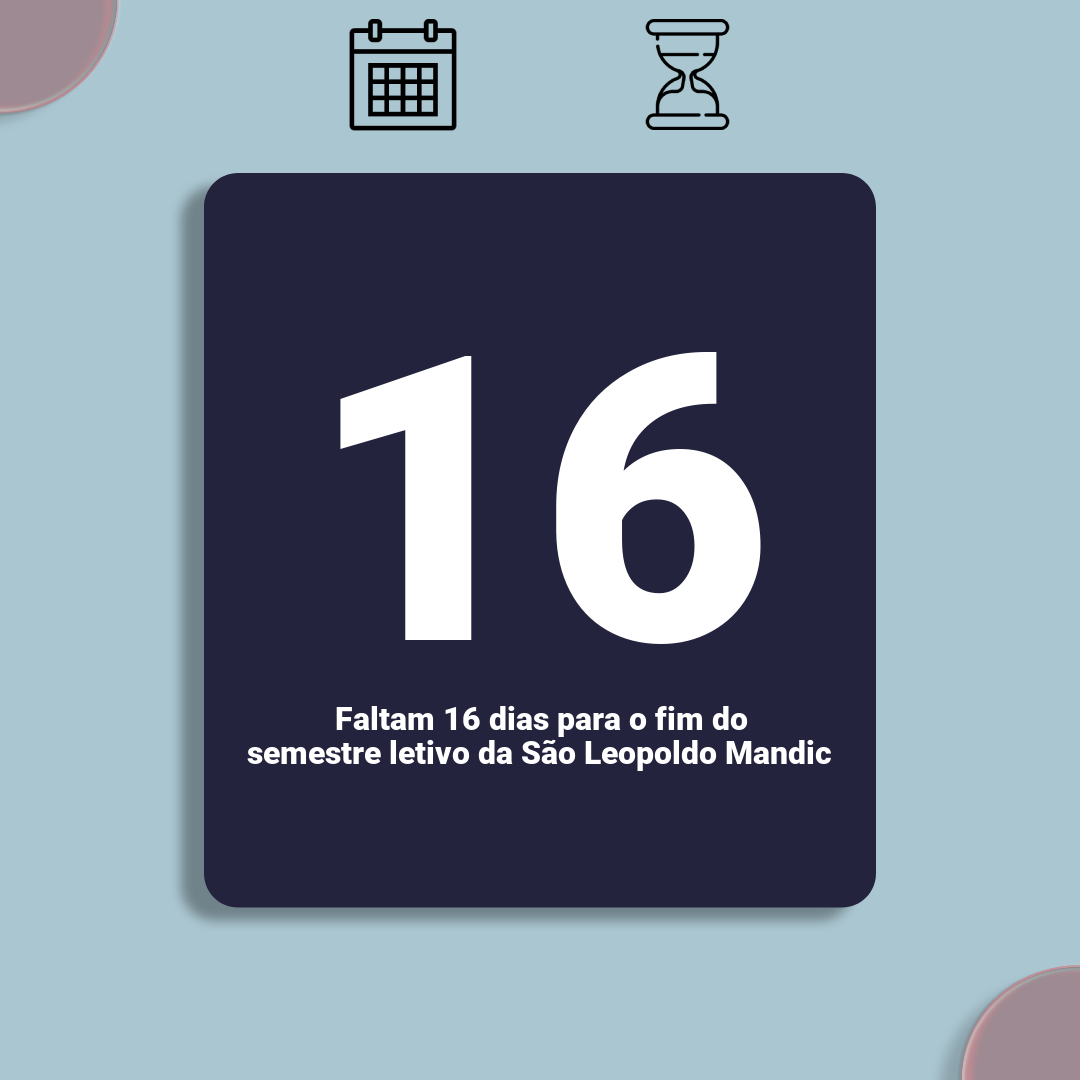
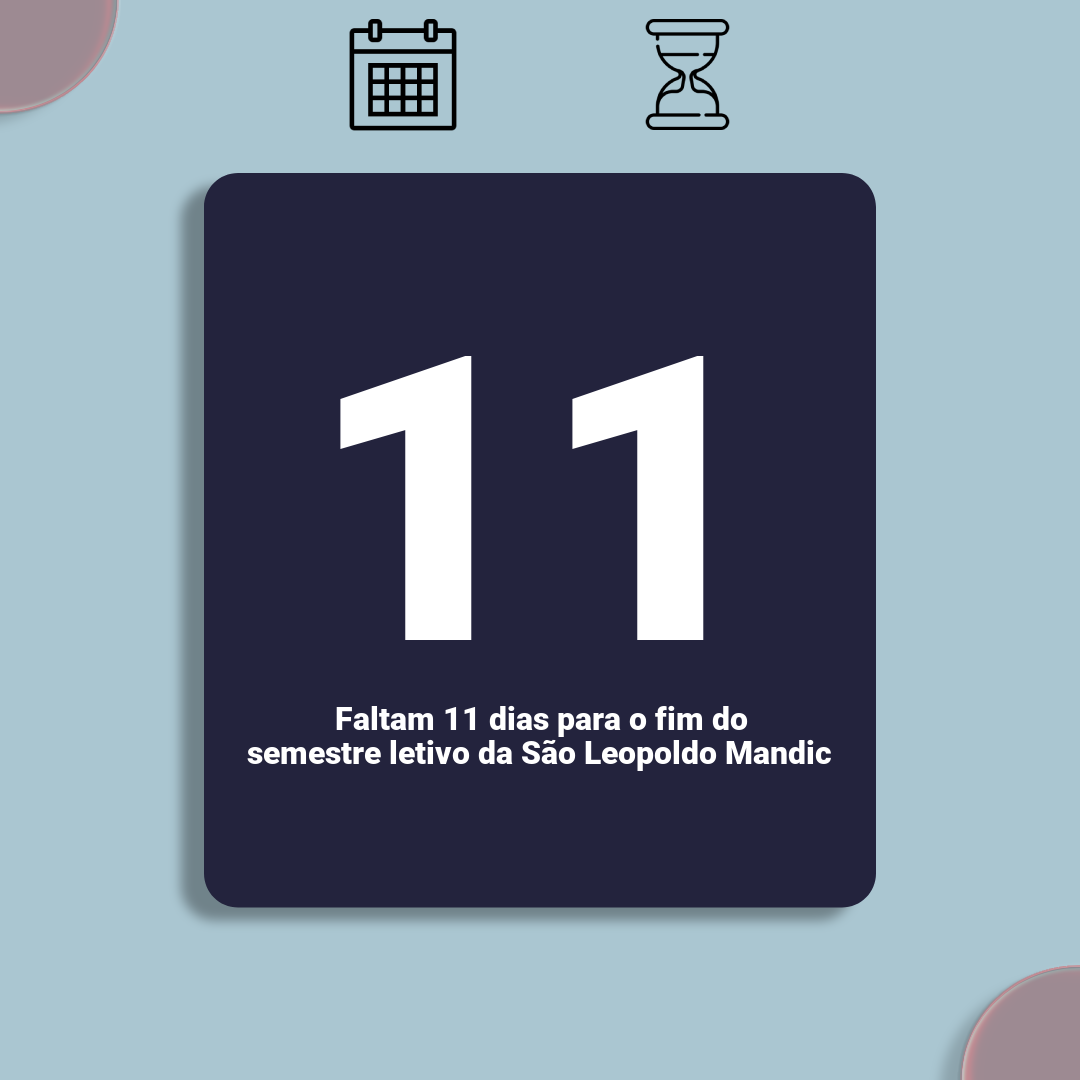
bottwittertimeline

Changed region(s): [[0.4889, 0.3056, 0.7028, 0.6111], [0.4278, 0.6417, 0.4583, 0.6722]]

diff --git a/main.py b/main.py
@@ -12,27 +12,24 @@ auth = tweepy.OAuthHandler(consumer_key, consumer_secret)
 auth.set_access_token(access_token, access_token_secret)
 api = tweepy.API(auth)
 
-while True:
-    time.sleep(25)
-    hora = time.gmtime()
-    if hora[3] == 16 and hora[4] == 00:
-        data = time.gmtime()[7]
-        remain = 348 - int(data)   
 
-        phrase = (f"           Faltam {remain} dias para o fim do\nsemestre letivo da São Leopoldo Mandic")
-        status = phrase.split()
-        status = ' '.join(status)
+data = time.gmtime()[7]
+remain = 348 - int(data)   
+
+phrase = (f"           Faltam {remain} dias para o fim do\nsemestre letivo da São Leopoldo Mandic")
+status = phrase.split()
+status = ' '.join(status)
 
 
-        font = ImageFont.truetype("RobotoBlack.ttf", 400)
-        font2 = ImageFont.truetype("RobotoBlack.ttf", 32)
+font = ImageFont.truetype("RobotoBlack.ttf", 400)
+font2 = ImageFont.truetype("RobotoBlack.ttf", 32)
 
-        IMG = Image.open("template.png")
-        IMGdraw = ImageDraw.Draw(IMG)
-        IMGdraw.text((540, 640), str(remain), fill="white", anchor="ms", font=font)
-        IMGdraw.multiline_text((540, 700), phrase, fill="white", anchor="ma", font=font2)
-        IMG.save('post.png')
+IMG = Image.open("template.png")
+IMGdraw = ImageDraw.Draw(IMG)
+IMGdraw.text((540, 640), str(remain), fill="white", anchor="ms", font=font)
+IMGdraw.multiline_text((540, 700), phrase, fill="white", anchor="ma", font=font2)
+IMG.save('post.png')
 
-        api.update_status_with_media(status, 'post.png')
-        print ('tweet enviado')
-        time.sleep(82.800)
+api.update_status_with_media(status, 'post.png')
+print ('tweet enviado')
+time.sleep(82.800)
